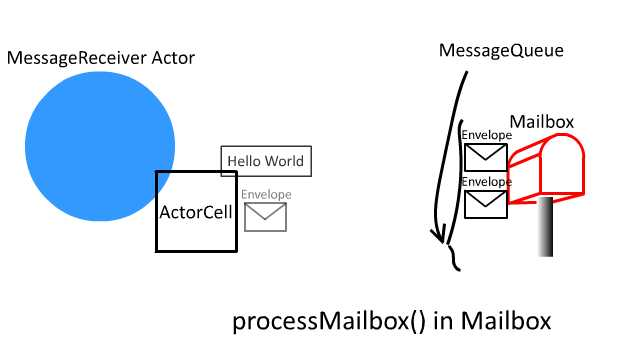
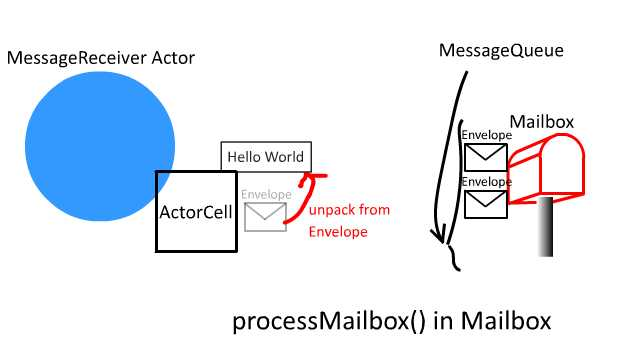
local receiver

Changed region(s): [[0.3438, 0.3667, 0.625, 0.6722]]

diff --git a/src/pages/local-minimal-receiver/index.md b/src/pages/local-minimal-receiver/index.md
@@ -9,53 +9,89 @@ You can find the code and instruction to run the example at [GitHub](https://git
 
 <iframe width="640" height="360" src="https://www.youtube.com/embed/LbuLAtN20HA" frameborder="0" allow="autoplay; encrypted-media" allowfullscreen></iframe>
 
+This is continued from the previous article, [Local Actor workflow part 1 - Sender side](../local-minimal-sender). I would recommend you to read that article too.
+
+Also, later I am going to write the remote versions of articles to illustrate the message-sending/receiving behavior of Akka Actor when sending across different JVMs.
 
 ## Workflow 
 
+As in bottom of the previous [Local Actor workflow part 1 - Sender side](../local-minimal-sender) article, the below  [registerForExecution](https://github.com/akka/akka/blob/v2.5.9/akka-actor/src/main/scala/akka/dispatch/Dispatcher.scala#L115) method will let Java's [`ExecutorService`](https://docs.oracle.com/javase/8/docs/api/java/util/concurrent/ExecutorService.html) process [`Mailbox`](https://github.com/akka/akka/blob/v2.5.9/akka-actor/src/main/scala/akka/dispatch/Mailbox.scala#L56L57) , which is defined as `ForkJoinTask`, to be executed on a different thread.
+
 ```scala
-//ForkJoinWorkerThread.java in akka.dispatch.forkjoin
-  public void run() {...} 
+def registerForExecution(mbox: Mailbox, ...): Boolean = {
+  ...
+  executorService execute mbox
+  ...
+}
 ```
 
 ```scala
-//abstract class Mailbox
-  @tailrec private final def processMailbox(
+abstract class Mailbox(val messageQueue: MessageQueue)
+  extends ForkJoinTask[Unit] 
+  with SystemMessageQueue 
+  with Runnable {
     ...
-    val next = dequeue() //  def dequeue(): Envelope = messageQueue.dequeue()
-    ...
-    actor invoke next
-    ...
-    processMailbox(...)
-  }
+}
 ```
+
+When `ExecutorService` executes the `Mailbox` as `ForkJoinTask`, then the following [`run` method of `ForkJoinWorkerThread`](https://github.com/akka/akka/blob/v2.5.9/akka-actor/src/main/java/akka/dispatch/forkjoin/ForkJoinWorkerThread.java#L103) is called:
+
+```java
+public void run() {...} 
+```
+
+(Somehow a copy of ForkJoinWorkerThread from Java's standard library is in akka's source code ... not sure why)
+
+The `run` method above runs the [following method of `Mailbox`](https://github.com/akka/akka/blob/v2.5.9/akka-actor/src/main/scala/akka/dispatch/Mailbox.scala#L250)
+
+```scala
+@tailrec private final def processMailbox(
+  ...
+  // def dequeue(): Envelope = messageQueue.dequeue()
+  val next = dequeue() 
+  ...
+  actor invoke next
+  ...
+  processMailbox(...)
+}
+```
+
+By `dequeue`-ing an `Envelope`, `Mailbox` calls the [`invoke` method of `ActorCell`](https://github.com/akka/akka/blob/v2.5.9/akka-actor/src/main/scala/akka/actor/ActorCell.scala#L488), 
 
 ![processmailbox](./processmailbox.jpg)
 
-
 ```scala
-//class ActorCell
-  final def invoke(messageHandle: Envelope): Unit
+final def invoke(messageHandle: Envelope): Unit = {
+  ...
+  receiveMessage(msg)
+  ...
+}
 ```
 
+which unpacks the message from `Envelope` then calls [`receiveMessage` of `ActorCell`](https://github.com/akka/akka/blob/v2.5.9/akka-actor/src/main/scala/akka/actor/ActorCell.scala#L527),
+
 ```scala
-//class ActorCell
-  def actor: Actor = _actor // return type is `Actor`
-  ...
-  final def receiveMessage(msg: Any): Unit = actor.aroundReceive(behaviorStack.head, msg)
+// def actor: Actor = ... in ActorCell
+final def receiveMessage(msg: Any): Unit =
+  actor.aroundReceive(behaviorStack.head, msg)
 ```
 
 ![receivemessage](./receivemessage.jpg)
 
+Here, `Actor` has an important method called `aroundReceive`, 
+
 ```scala
-//class ActorCell
-  @InternalApi
-  protected[akka] def aroundReceive(receive: Actor.Receive, msg: Any): Unit = {
-    // optimization: avoid allocation of lambda
-    if (receive.applyOrElse(msg, Actor.notHandledFun).asInstanceOf[AnyRef] eq Actor.NotHandled) {
-      unhandled(msg)
-    }
+def aroundReceive(receive: Actor.Receive, msg: Any): Unit = {
+  if (
+    receive.applyOrElse(msg, Actor.notHandledFun)
+      .asInstanceOf[AnyRef] eq Actor.NotHandled
+  ) {
+    unhandled(msg)
   }
+}
 ```
+
+which, as the name suggests, wraps around `Actor`'s `receive` method. 
 
 ```scala
 class MessageReceiver extends Actor {
@@ -65,14 +101,17 @@ class MessageReceiver extends Actor {
   }
 }
 ```
-
 ![receive](./receive.jpg)
+
+In `aroundReceive` you can see `receive.applyOrElse` is called, and if there is no match in `receive`'s patter-match, it will call `unhandled` of `Actor`.
+
+Up to here, we have pretty much covered the receiver side of the behavior in actor's message passing. Next up, I will go through how this changes when sending to a remote JVM.
 
 ## Instruction to run the example
 ```
 > git clone https://github.com/richardimaoka/resources.git
 > cd resources
-> cd serialize-minimal
+> cd local-minimal
 > sbt
 > runMain example.Main
 ```
@@ -83,19 +122,24 @@ Some `println` calls are inserted in the [complete example at GitHub](https://gi
 
 Thread names are shown as [exampleSystem-akka.actor.default-dispatcher-3] and [...-4].
 
-
 ```
 [info] Running example.Main
 provider = local
-[exampleSystem-akka.actor.default-dispatcher-3] sending message Hello World to Actor[akka://exampleSystem/user/receiver#607760908]
-[exampleSystem-akka.actor.default-dispatcher-3] sending message Hello Universe to Actor[akka://exampleSystem/user/receiver#607760908]
-[exampleSystem-akka.actor.default-dispatcher-4] EchoActor: received message = Hello World
-[exampleSystem-akka.actor.default-dispatcher-3] sending message Hello Galaxy to Actor[akka://exampleSystem/user/receiver#607760908]
-[exampleSystem-akka.actor.default-dispatcher-4] EchoActor: received message = Hello Universe
-[exampleSystem-akka.actor.default-dispatcher-4] EchoActor: received message = Hello Galaxy
-[success] Total time: 9 s, completed Jan 29, 2018 6:44:14 AM
+[exampleSystem-akka.actor.default-dispatcher-5] sending message Hello World to Actor[akka://exampleSystem/user/receiver#-846959521]
+[exampleSystem-akka.actor.default-dispatcher-5] sending message Hello Universe to Actor[akka://exampleSystem/user/receiver#-846959521]
+[exampleSystem-akka.actor.default-dispatcher-2] EchoActor: received message = Hello World
+[exampleSystem-akka.actor.default-dispatcher-5] sending message Hello Galaxy to Actor[akka://exampleSystem/user/receiver#-846959521]
+[exampleSystem-akka.actor.default-dispatcher-2] EchoActor: received message = Hello Universe
+[exampleSystem-akka.actor.default-dispatcher-2] EchoActor: received message = Hello Galaxy
+[success] Total time: 7 s, completed Jan 30, 2018 6:16:46 AM
 ```
 
 ## References 
 
-- Official documentation of Akka serialization at https://doc.akka.io/docs/akka/2.5/serialization.html
+- Official documentation of Akka Actor at https://doc.akka.io/docs/akka/2.5/actors.html
+- Official documentation of Akka Dispatcher at https://doc.akka.io/docs/akka/2.5/dispatchers.html
+- Official documentation of Akka lifecycle at https://doc.akka.io/docs/akka/current/actors.html$actor-lifecycle
+- Official documentation of Akka Mailbox at https://doc.akka.io/docs/akka/2.5/mailboxes.html?language=scala#mailboxes)
+- Official documentation of Akka location transparency at https://doc.akka.io/docs/akka/current/general/remoting.html#location-transparency
+- Oracle's documentation about Fork/Join at https://docs.oracle.com/javase/tutorial/essential/concurrency/forkjoin.html
+- ExecutorService Javadoc at https://docs.oracle.com/javase/8/docs/api/java/util/concurrent/ExecutorService.html

diff --git a/src/pages/local-minimal-sender/index.md b/src/pages/local-minimal-sender/index.md
@@ -7,7 +7,7 @@ date: "2018-01-29T01:31:00.000+0900"
 
 You can find the code and instruction to run the example at [GitHub](https://github.com/richardimaoka/resources/tree/master/local-minimal).
 
-<iframe width="640" height="360" src="https://www.youtube.com/embed/SKOpmttB47A" frameborder="0" allow="autoplay; encrypted-media" allowfullscreen></iframe>
+<iframe width="640" height="360" src="https://www.youtube.com/embed/hQJkN4zXTyo" frameborder="0" allow="autoplay; encrypted-media" allowfullscreen></iframe>
 
 This is about how Akka sends a message from one Actor to another **locally** (i.e. within the same JVM). As in the [`Serialization` part](https://doc.akka.io/docs/akka/2.5/serialization.html?language=scala) of the official doc:
 
@@ -186,3 +186,5 @@ provider = local
 - Official documentation of Akka lifecycle at https://doc.akka.io/docs/akka/current/actors.html$actor-lifecycle
 - Official documentation of Akka Mailbox at https://doc.akka.io/docs/akka/2.5/mailboxes.html?language=scala#mailboxes)
 - Official documentation of Akka location transparency at https://doc.akka.io/docs/akka/current/general/remoting.html#location-transparency
+- Oracle's documentation about Fork/Join at https://docs.oracle.com/javase/tutorial/essential/concurrency/forkjoin.html
+- ExecutorService Javadoc at https://docs.oracle.com/javase/8/docs/api/java/util/concurrent/ExecutorService.html
